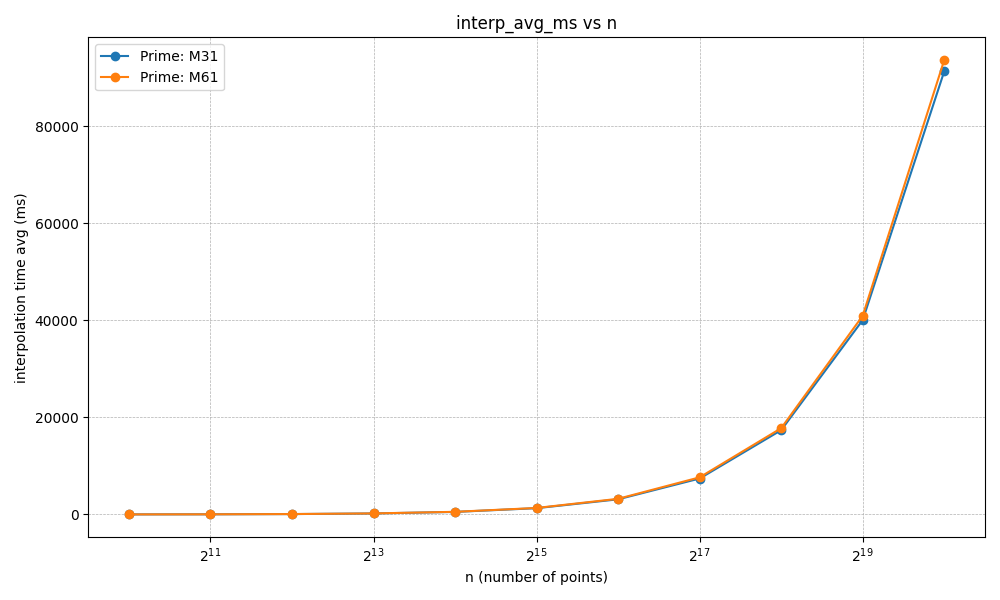
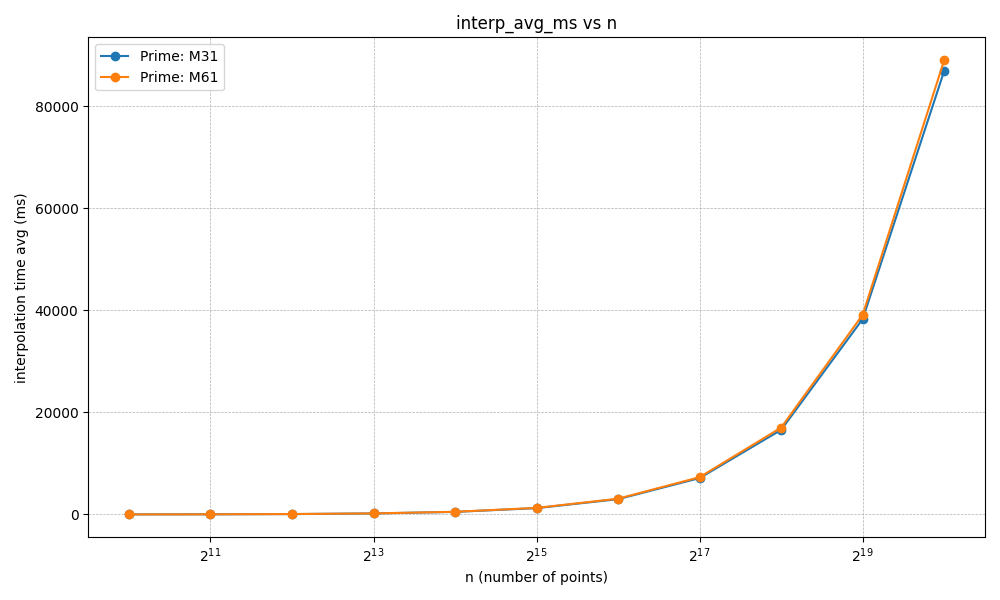
perf: add lazy/unrolled NTT and enable native optimizations for benchmarks

diff --git a/include/poly_interp/fp_poly.hpp b/include/poly_interp/fp_poly.hpp
@@ -49,6 +49,21 @@ inline u32 add_mod(u32 a, u32 b, u32 mod) {
 inline u32 sub_mod(u32 a, u32 b, u32 mod) {
     return (a >= b) ? (a - b) : (a + mod - b);
 }
+// -------------------- [LAZY REDUCTION] keep values in [0, 2*mod) --------------------
+inline u32 add_mod_lazy2(u32 a, u32 b, u32 mod2) {
+    // pre: a in [0, mod2), b in [0, mod)
+    u32 s = a + b;            // < 3*mod < 2^32
+    if (s >= mod2) s -= mod2;
+    return s;                 // in [0, mod2)
+}
+
+inline u32 sub_mod_lazy2(u32 a, u32 b, u32 mod, u32 mod2) {
+    // pre: a in [0, mod2), b in [0, mod)
+    // use a + mod - b to avoid potential overflow of a + mod2
+    u32 s = a + mod - b;      // < 3*mod < 2^32
+    if (s >= mod2) s -= mod2;
+    return s;                 // in [0, mod2)
+}
 // -------------------- [BARRETT] fast mod for u64 x with 32-bit prime mod --------------------
 inline u32 barrett_reduce_u64(u64 x, u32 mod, u64 im) {
     // im = floor(2^64 / mod)
@@ -210,31 +225,78 @@ inline void ntt_cached(std::size_t prime_idx, std::vector<u32>& a, bool invert) 
     const u32 n = (u32)a.size();
     NTTCache& C = ensure_ntt_cache(prime_idx, n);
     const u32 mod = C.mod;
+    const u32 mod2 = mod + mod;     // safe for your primes (< 2^32)
+    const u64 im = C.barrett_im;
+    const u32 cache_n = C.cache_n;
 
-    // [BITREV CACHE] cached bit-reversal permutation
+#ifndef NDEBUG
+    // In debug, make sure inputs are in [0, mod) (cheap fix if slightly out)
+    for (u32 i = 0; i < n; ++i) {
+        if (a[i] >= mod) a[i] %= mod;
+    }
+#endif
+
+    // [BITREV CACHE]
     const auto& rev = bitrev_table(n);
     for (u32 i = 0; i < n; ++i) {
         const u32 j = rev[i];
         if (i < j) std::swap(a[i], a[j]);
     }
 
-    // Use cached root table sized cache_n (>= n).
-    // For stage len, wlen = g^((mod-1)/len) = base^(cache_n/len).
-    const u32 cache_n = C.cache_n;
+    u32* A = a.data();
 
     for (u32 len = 2; len <= n; len <<= 1) {
         const u32 half = len >> 1;
         const u32 step = cache_n / len;
         const u32 wlen = invert ? C.iroot[step] : C.root[step];
 
-        for (u32 i = 0; i < n; i += len) {
+        for (u32 blk = 0; blk < n; blk += len) {
+            u32* p = A + blk;
+            u32* q = p + half;
+
             u32 w = 1;
-            for (u32 j = 0; j < half; ++j) {
-                const u32 u = a[i + j];
-                const u32 v = barrett_reduce_u64((u64)w * (u64)a[i + j + half], mod, C.barrett_im);
-                a[i + j] = add_mod(u, v, mod);
-                a[i + j + half] = sub_mod(u, v, mod);
-                w = mul_mod_barrett(w, wlen, mod, C.barrett_im);
+            u32 j = 0;
+
+            // 4-way unroll
+            for (; j + 4 <= half; j += 4) {
+                const u32 w0 = w;
+                const u32 w1 = mul_mod_barrett(w0, wlen, mod, im);
+                const u32 w2 = mul_mod_barrett(w1, wlen, mod, im);
+                const u32 w3 = mul_mod_barrett(w2, wlen, mod, im);
+                w = mul_mod_barrett(w3, wlen, mod, im);
+
+                const u32 u0 = p[j + 0];
+                const u32 u1 = p[j + 1];
+                const u32 u2 = p[j + 2];
+                const u32 u3 = p[j + 3];
+
+                const u32 v0 = barrett_reduce_u64((u64)w0 * (u64)q[j + 0], mod, im);
+                const u32 v1 = barrett_reduce_u64((u64)w1 * (u64)q[j + 1], mod, im);
+                const u32 v2 = barrett_reduce_u64((u64)w2 * (u64)q[j + 2], mod, im);
+                const u32 v3 = barrett_reduce_u64((u64)w3 * (u64)q[j + 3], mod, im);
+
+                p[j + 0] = add_mod_lazy2(u0, v0, mod2);
+                q[j + 0] = sub_mod_lazy2(u0, v0, mod, mod2);
+
+                p[j + 1] = add_mod_lazy2(u1, v1, mod2);
+                q[j + 1] = sub_mod_lazy2(u1, v1, mod, mod2);
+
+                p[j + 2] = add_mod_lazy2(u2, v2, mod2);
+                q[j + 2] = sub_mod_lazy2(u2, v2, mod, mod2);
+
+                p[j + 3] = add_mod_lazy2(u3, v3, mod2);
+                q[j + 3] = sub_mod_lazy2(u3, v3, mod, mod2);
+            }
+
+            // tail
+            for (; j < half; ++j) {
+                const u32 u = p[j];
+                const u32 v = barrett_reduce_u64((u64)w * (u64)q[j], mod, im);
+
+                p[j] = add_mod_lazy2(u, v, mod2);
+                q[j] = sub_mod_lazy2(u, v, mod, mod2);
+
+                w = mul_mod_barrett(w, wlen, mod, im);
             }
         }
     }
@@ -242,8 +304,12 @@ inline void ntt_cached(std::size_t prime_idx, std::vector<u32>& a, bool invert) 
     if (invert) {
         const int logn = __builtin_ctz((unsigned)n);
         const u32 inv_n = C.inv_n_by_log[logn];
+
+        // Normalize from [0, 2*mod) to [0, mod), then scale by inv_n -> [0, mod)
         for (u32 i = 0; i < n; ++i) {
-            a[i] = mul_mod(a[i], inv_n, mod);
+            u32 x = A[i];
+            if (x >= mod) x -= mod; // now < mod
+            A[i] = barrett_reduce_u64((u64)x * (u64)inv_n, mod, im);
         }
     }
 }
